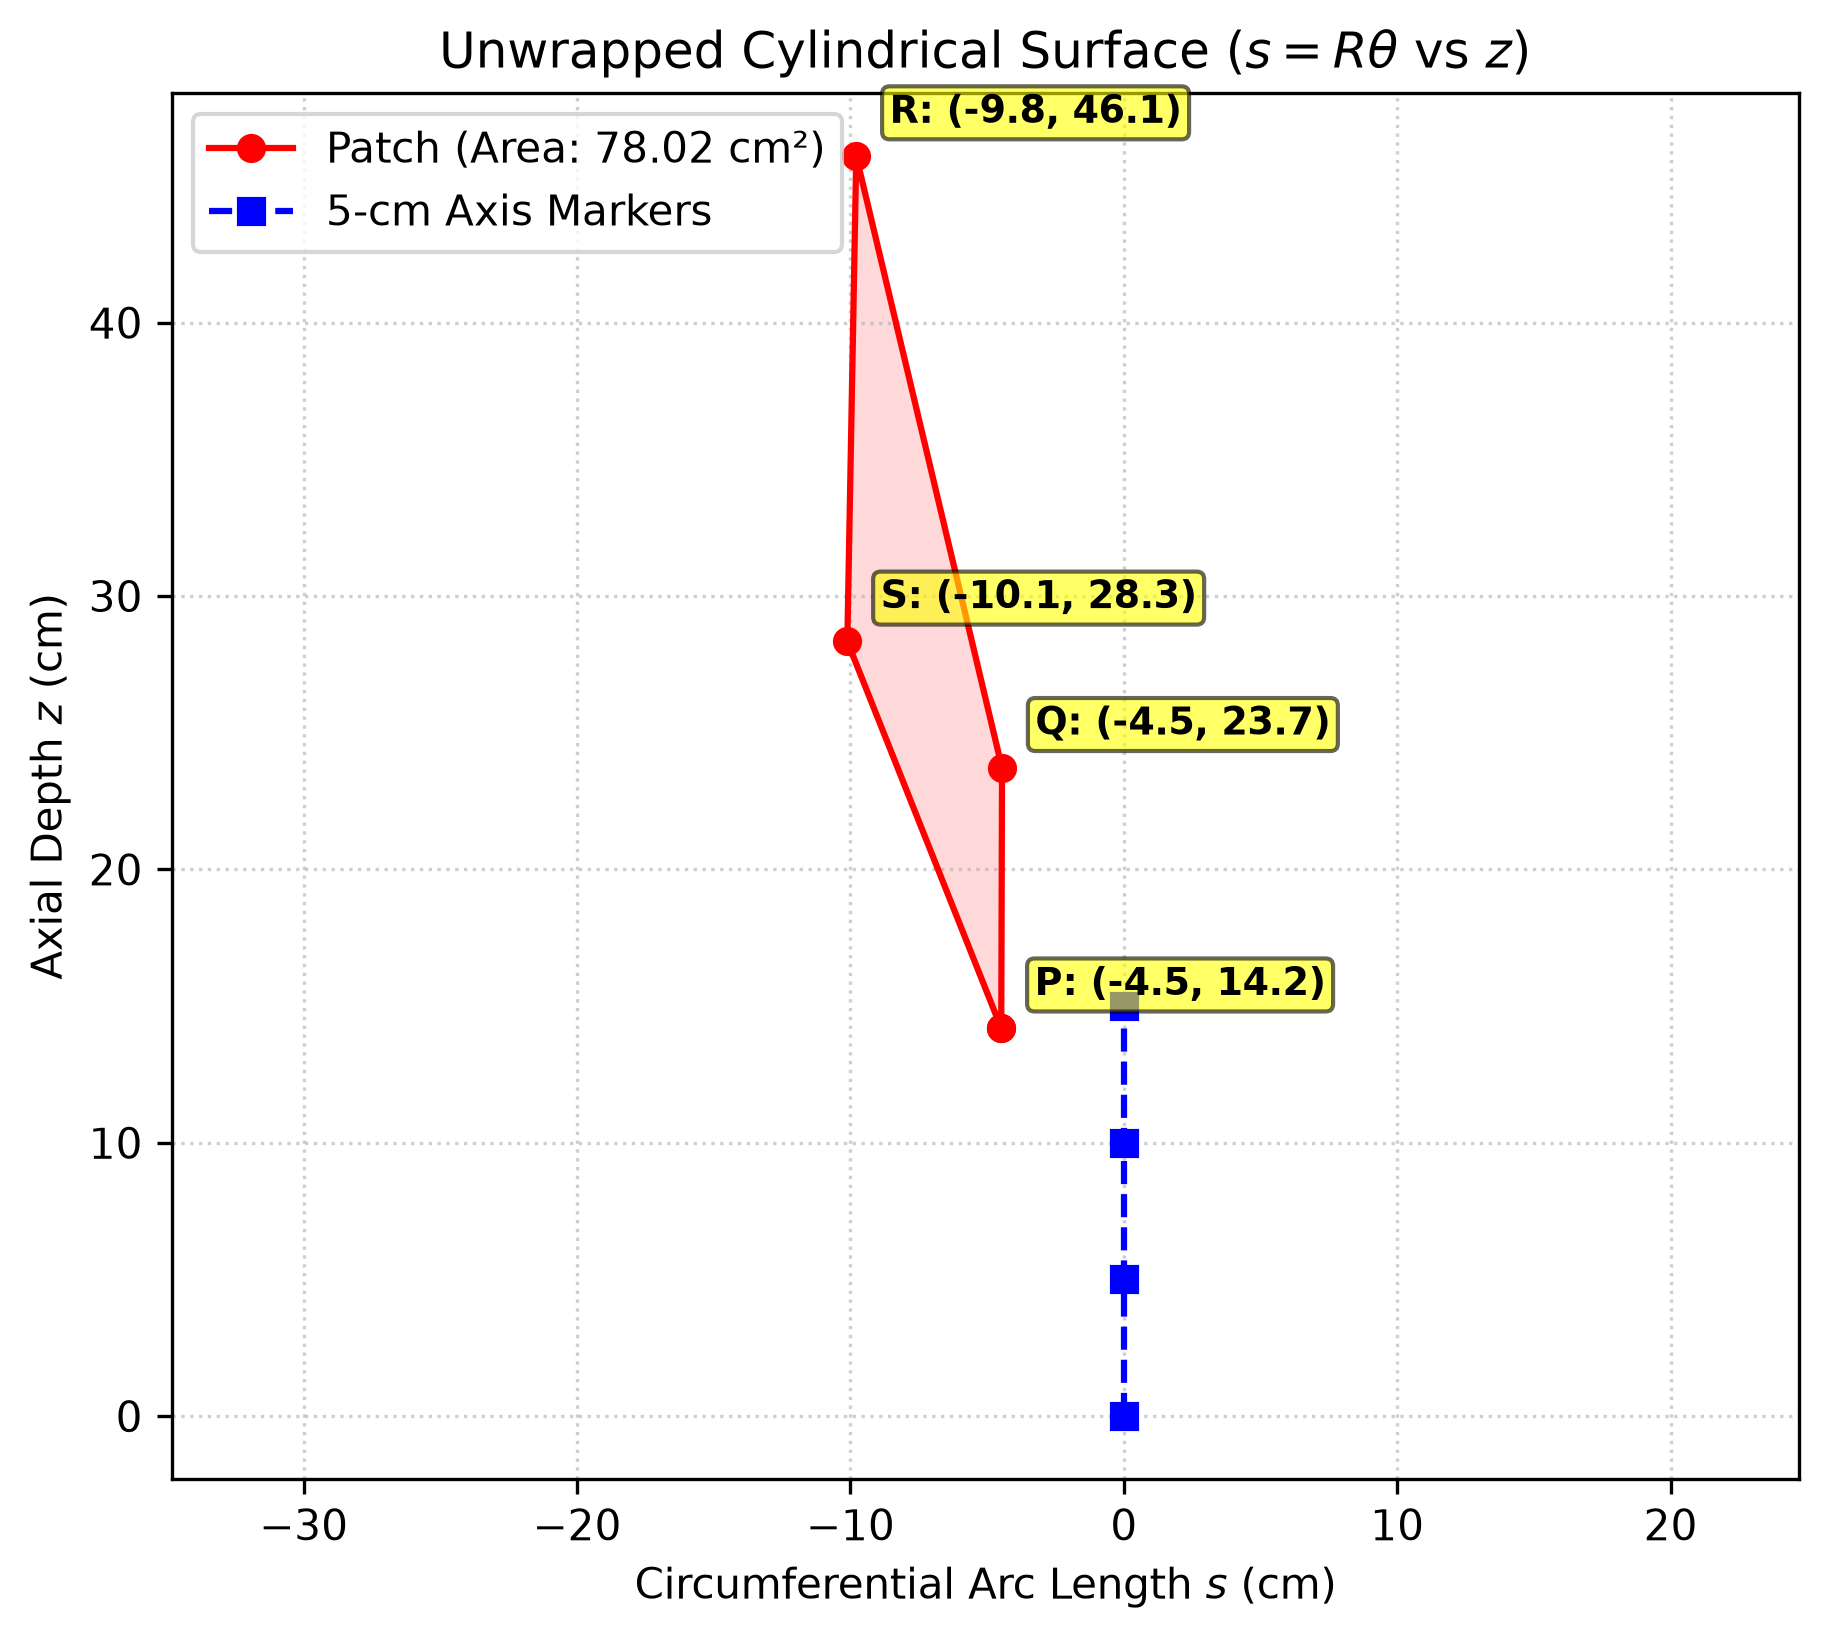
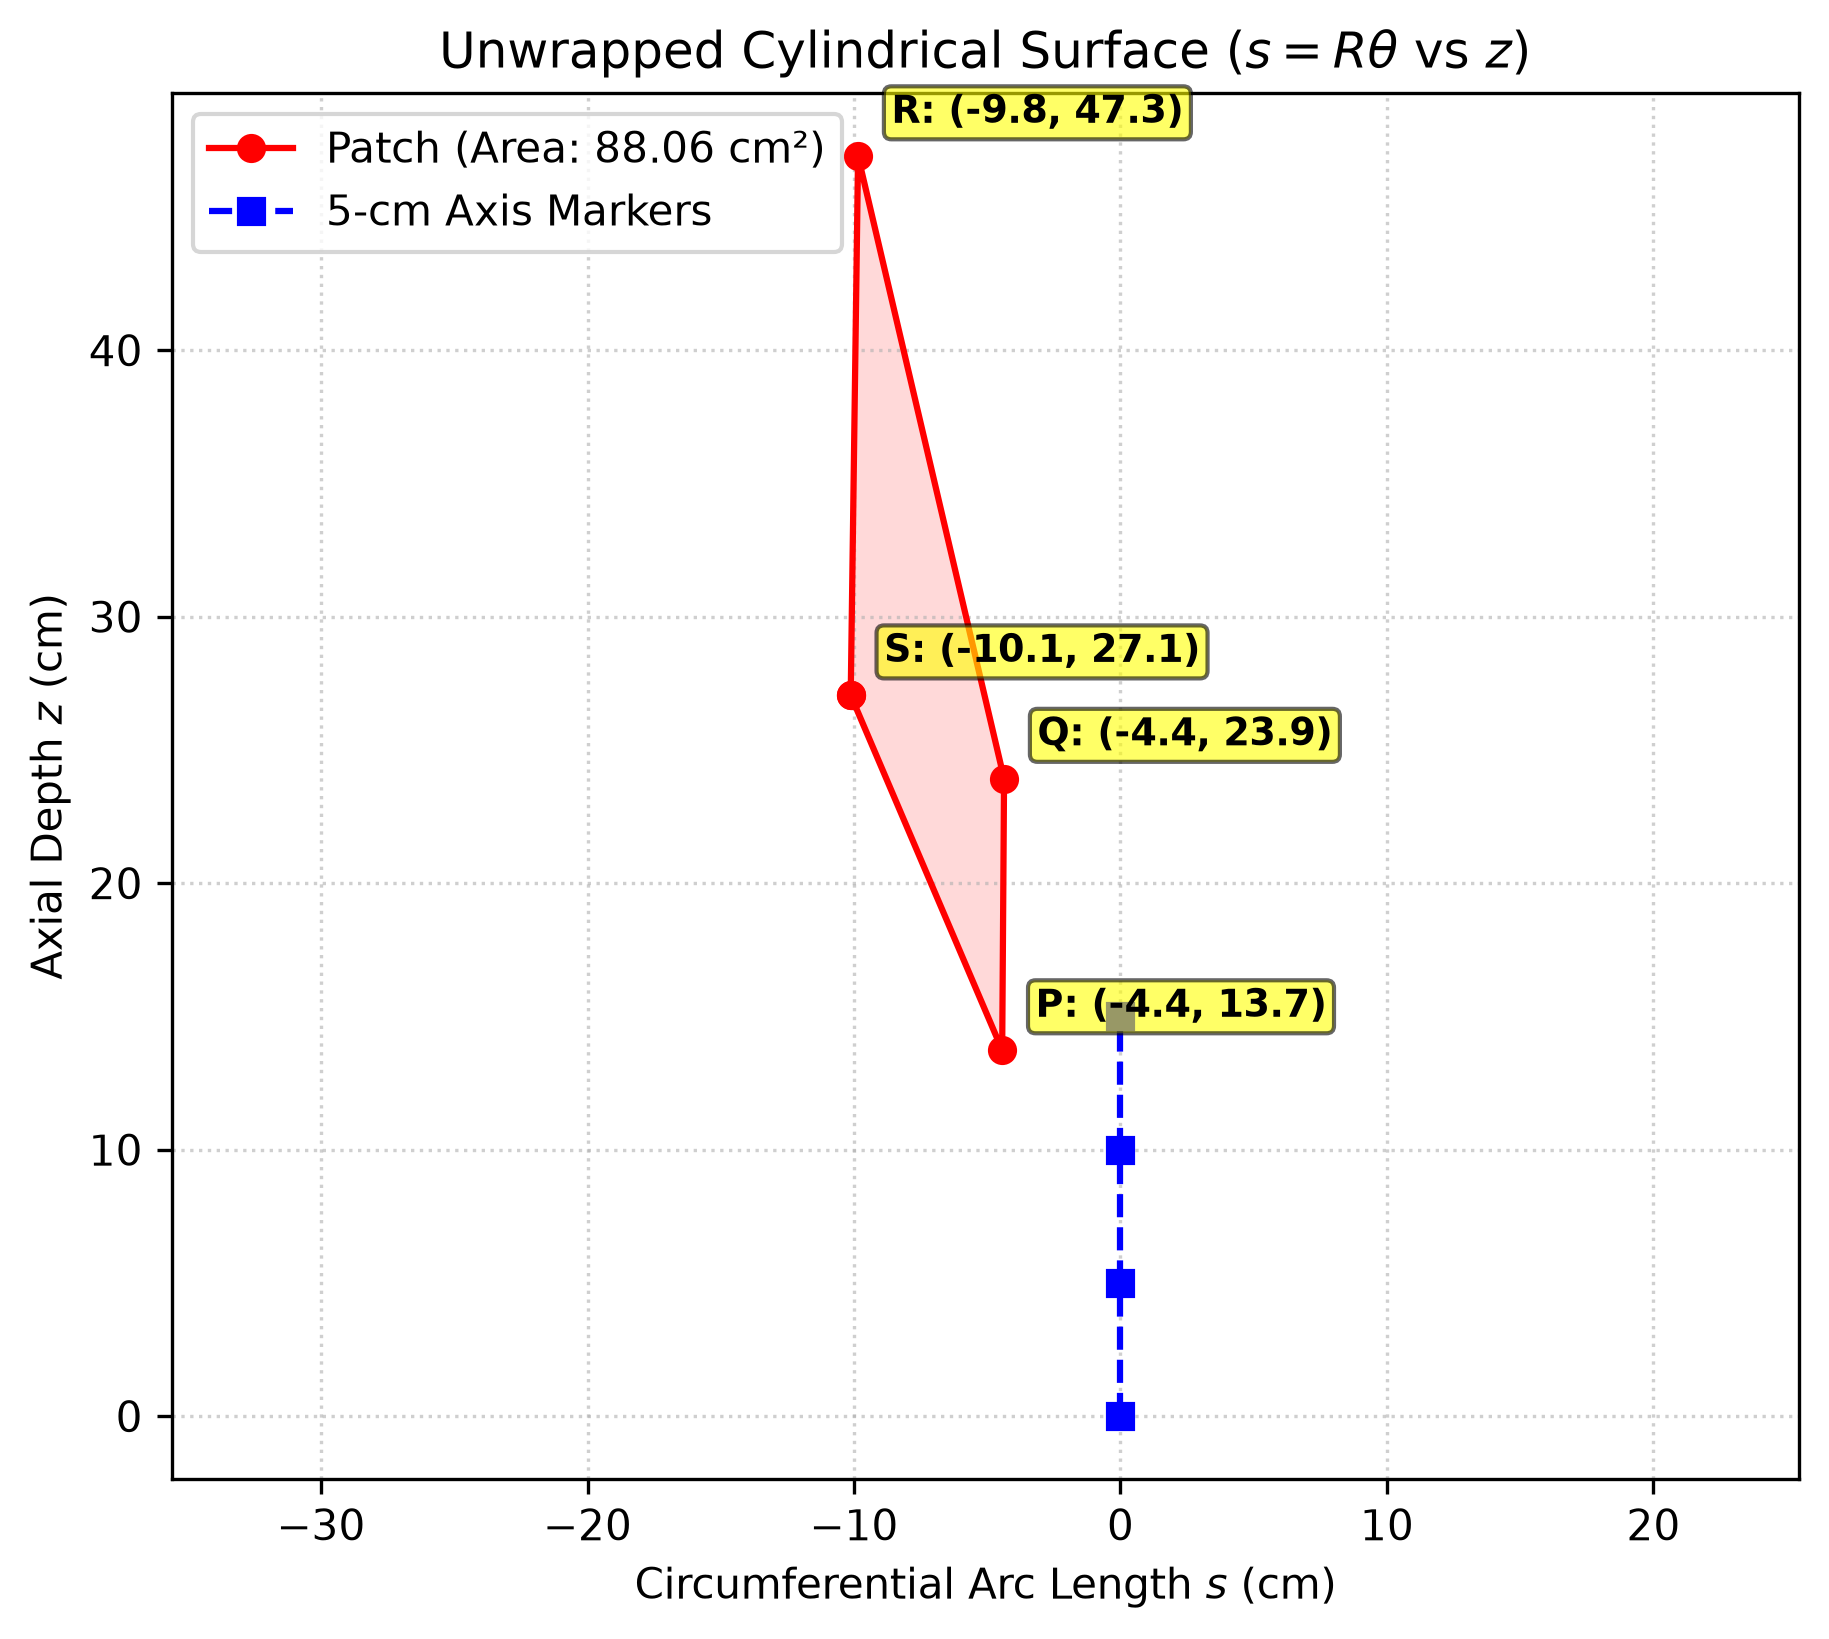
feat: add point R sensitivity sweep and isolated two-point SVD axis calibration

diff --git a/2D_coordinates_3D_coordinates.py b/2D_coordinates_3D_coordinates.py
@@ -141,6 +141,24 @@ else:
 
     print(f"\nSession finished. Total coordinates captured: {len(clicked_coordinates)}")
 
+    # Fallback to stored clicks if ESC was pressed directly
+    if len(clicked_coordinates) < 8:
+        print("Using stored points...")
+        fallback_clicks = {
+            'm_0': (1208, 1349), 'm_1': (1290, 1686), 'm_2': (1350, 1980), 'm_3': (1395, 2220),
+            'P': (1031, 2114), 'Q': (1154, 2206), 'R': (1341, 2589), 'S': (1290, 2652)
+        }
+        for lbl in labels:
+            u, v = fallback_clicks[lbl]
+            p = np.array([[u], [v], [1]], dtype=np.float64)
+            d = np.linalg.solve(K, p)
+            points_dict[lbl] = {
+                "pixel": (u, v),
+                "homogeneous": p,
+                "viewing_direction": d,
+                "d_hat": d / np.linalg.norm(d)
+            }
+
     # Get normalized viewing directions after all 4 points have been clicked
     d0 = points_dict['m_0']['d_hat'].flatten()
     d1 = points_dict['m_1']['d_hat'].flatten()
@@ -203,15 +221,17 @@ else:
     for idx, M in enumerate(M_points):
         print(f"M_{idx}: X={M[0]:.2f}, Y={M[1]:.2f}, Z={M[2]:.2f}")
 
-    print("\n================ Cylinder Axis Direction (a_hat) ===========")
-    print(f"a_hat: [{a_hat[0]:.4f}, {a_hat[1]:.4f}, {a_hat[2]:.4f}]")
-
     # 4. Calibration vs Independent Validation Verification
     print("\n================ Calibration vs Validation ================")
     print(f"Calibration Scale Baseline (||M1 - M0||) : {np.linalg.norm(M1 - M0):.2f} cm (Enforced)")
     print(f"Independent Validation 1   (||M2 - M1||) : {np.linalg.norm(M2 - M1):.2f} cm (Target: 5.00 cm)")
     print(f"Independent Validation 2   (||M3 - M2||) : {np.linalg.norm(M3 - M2):.2f} cm (Target: 5.00 cm)")
     print(f"Independent Total Span     (||M3 - M0||) : {np.linalg.norm(M3 - M0):.2f} cm (Target: 15.00 cm)")
+
+    # Test isolated pose estimation using strictly M0 and M1
+    axis_m0_m1 = M1 - M0
+    a_hat_isolated = axis_m0_m1 / np.linalg.norm(axis_m0_m1)
+    print(f"Isolated Axis from M0->M1 only          : [{a_hat_isolated[0]:.4f}, {a_hat_isolated[1]:.4f}, {a_hat_isolated[2]:.4f}]")
 
     # ========================================================
     # Next Step: Ray-Cylinder Intersection & Patch Unwrapping
@@ -224,27 +244,28 @@ else:
     v_axis = np.cross(a_hat, u_axis)
 
     def intersect_ray_cylinder(d_hat, A_anchor, a_hat_dir, R_cyl):
-            """Calculates the 3D surface intersection for a camera ray."""
-            v = np.cross(d_hat, a_hat_dir)
-            w = np.cross(-A_anchor, a_hat_dir)
+        """Calculates the 3D surface intersection for a camera ray."""
+        v = np.cross(d_hat, a_hat_dir)
+        w = np.cross(-A_anchor, a_hat_dir)
 
-            c2 = np.dot(v, v)
-            c1 = 2.0 * np.dot(v, w)
-            c0 = np.dot(w, w) - (R_cyl ** 2)
+        c2 = np.dot(v, v)
+        c1 = 2.0 * np.dot(v, w)
+        c0 = np.dot(w, w) - (R_cyl ** 2)
 
-            discriminant = c1**2 - 4.0 * c2 * c0
-            if discriminant < 0:
-                raise ValueError("Ray does not intersect cylinder.")
+        discriminant = c1**2 - 4.0 * c2 * c0
+        if discriminant < 0:
+            return None, discriminant, None
 
-            t1 = (-c1 - np.sqrt(discriminant)) / (2.0 * c2)
-            t2 = (-c1 + np.sqrt(discriminant)) / (2.0 * c2)
+        t1 = (-c1 - np.sqrt(discriminant)) / (2.0 * c2)
+        t2 = (-c1 + np.sqrt(discriminant)) / (2.0 * c2)
 
-            # For interior surface viewing from the camera aperture, take the smaller positive root
-            t_pos = [t for t in (t1, t2) if t > 0]
-            if not t_pos:
-                raise ValueError("No positive intersection found along camera ray.")
-            
-            return min(t_pos) * d_hat
+        # For interior surface viewing from the camera aperture, take the smaller positive root
+        t_pos = [t for t in (t1, t2) if t > 0]
+        if not t_pos:
+            return None, discriminant, None
+        
+        t_chosen = min(t_pos)
+        return t_chosen * d_hat, discriminant, t_chosen
 
     # Target patch reconstruction from live user clicks (P, Q, R, S)
     patch_3d = {}
@@ -255,13 +276,14 @@ else:
         d_hat = points_dict[label]['d_hat'].flatten()
 
         # 1. 3D point on cylinder surface
-        P_xyz = intersect_ray_cylinder(d_hat, A, a_hat, radius)
+        P_xyz, disc_val, t_val = intersect_ray_cylinder(d_hat, A, a_hat, radius)
         patch_3d[label] = P_xyz
 
         # 2. Convert to cylindrical coordinates (s = R * theta, z)
+        # Shift z origin relative to M0 (pipe opening) so z matches pipe physical length
         rel_vec = P_xyz - A
-        z_axial = np.dot(rel_vec, a_hat)
-        radial_proj = rel_vec - z_axial * a_hat
+        z_axial = np.dot(P_xyz - M0, a_hat)
+        radial_proj = rel_vec - np.dot(rel_vec, a_hat) * a_hat
         theta = np.arctan2(np.dot(radial_proj, v_axis), np.dot(radial_proj, u_axis))
         s_arc = radius * theta
 
@@ -282,9 +304,6 @@ else:
     calc_area = 0.5 * np.abs(np.dot(s_pts, np.roll(z_pts, 1)) - np.dot(z_pts, np.roll(s_pts, 1)))
 
     # Compute Reconstructed Dimensions from unwrapped coordinates (s, z)
-    s_vals = pts_2d[:, 0]
-    z_vals = pts_2d[:, 1]
-    # True physical edges: circumferential span (P to S) and axial depth (P to Q)
     recon_width = abs(patch_unwrapped['S'][0] - patch_unwrapped['P'][0])
     recon_height = abs(patch_unwrapped['Q'][1] - patch_unwrapped['P'][1])
     recon_rect_area = recon_width * recon_height
@@ -300,6 +319,48 @@ else:
     print(f"Shoelace Polygon Area       : {calc_area:6.2f} cm² | Actual: {actual_area_cm2:6.2f} cm² | Error: {abs(calc_area - actual_area_cm2):.2f} cm² ({(abs(calc_area - actual_area_cm2)/actual_area_cm2)*100:.2f}%)")
 
     # ========================================================
+    # Point R Sensitivity Sweep (+-1, +-2, +-5 pixels)
+    # ========================================================
+    print("\n================ Point R Sensitivity Sweep ================")
+    print(f"{'Offset':<10} | {'Disc (b²-4ac)':<14} | {'t (cm)':<8} | {'z (cm)':<8} | {'Area (cm²)':<10} | {'Area Error'}")
+    print("-" * 68)
+
+    base_u, base_v = points_dict['R']['pixel']
+    shifts = [
+        ('Base', 0, 0),
+        ('u + 1', 1, 0), ('u - 1', -1, 0),
+        ('u + 2', 2, 0), ('u - 2', -2, 0),
+        ('u + 5', 5, 0), ('u - 5', -5, 0),
+        ('v + 1', 0, 1), ('v - 1', 0, -1),
+        ('v + 2', 0, 2), ('v - 2', 0, -2),
+        ('v + 5', 0, 5), ('v - 5', 0, -5),
+    ]
+
+    for name, du, dv in shifts:
+        p_sweep = np.array([[base_u + du], [base_v + dv], [1]], dtype=np.float64)
+        d_sweep = np.linalg.solve(K, p_sweep)
+        d_sweep_hat = (d_sweep / np.linalg.norm(d_sweep)).flatten()
+
+        pt_sweep, d_val, t_val = intersect_ray_cylinder(d_sweep_hat, A, a_hat, radius)
+        if pt_sweep is not None:
+            rel = pt_sweep - A
+            z_sw = np.dot(pt_sweep - M0, a_hat)
+            rad_p = rel - np.dot(rel, a_hat) * a_hat
+            th_sw = np.arctan2(np.dot(rad_p, v_axis), np.dot(rad_p, u_axis))
+            s_sw = radius * th_sw
+
+            # recalculate polygon area with shifted R
+            sweep_pts = np.array([patch_unwrapped['P'], patch_unwrapped['Q'], (s_arc, z_axial), patch_unwrapped['S']])
+            sweep_pts[2] = (s_sw, z_sw)
+            c_sw = np.mean(sweep_pts, axis=0)
+            ang_sw = np.arctan2(sweep_pts[:, 1] - c_sw[1], sweep_pts[:, 0] - c_sw[0])
+            sorted_sw = sweep_pts[np.argsort(ang_sw)]
+            sw_area = 0.5 * np.abs(np.dot(sorted_sw[:, 0], np.roll(sorted_sw[:, 1], 1)) - np.dot(sorted_sw[:, 1], np.roll(sorted_sw[:, 0], 1)))
+            sw_err = abs(sw_area - actual_area_cm2) / actual_area_cm2 * 100
+
+            print(f"{name:<10} | {d_val:<14.4e} | {t_val:<8.2f} | {z_sw:<8.2f} | {sw_area:<10.2f} | {sw_err:.2f}%")
+
+    # ========================================================
     # Save Figures for Report / Advisor Deliverables
     # ========================================================
     import matplotlib.pyplot as plt
@@ -311,7 +372,7 @@ else:
     plt.fill(patch_poly[:, 0], patch_poly[:, 1], 'red', alpha=0.15)
 
     # Plot the reference line (s = 0)
-    ref_z = [np.dot(M - A, a_hat) for M in M_points]
+    ref_z = [np.dot(M - M0, a_hat) for M in M_points]
     plt.plot([0]*4, ref_z, 'b--s', label='5-cm Axis Markers')
 
     for lbl in ['P', 'Q', 'R', 'S']:
